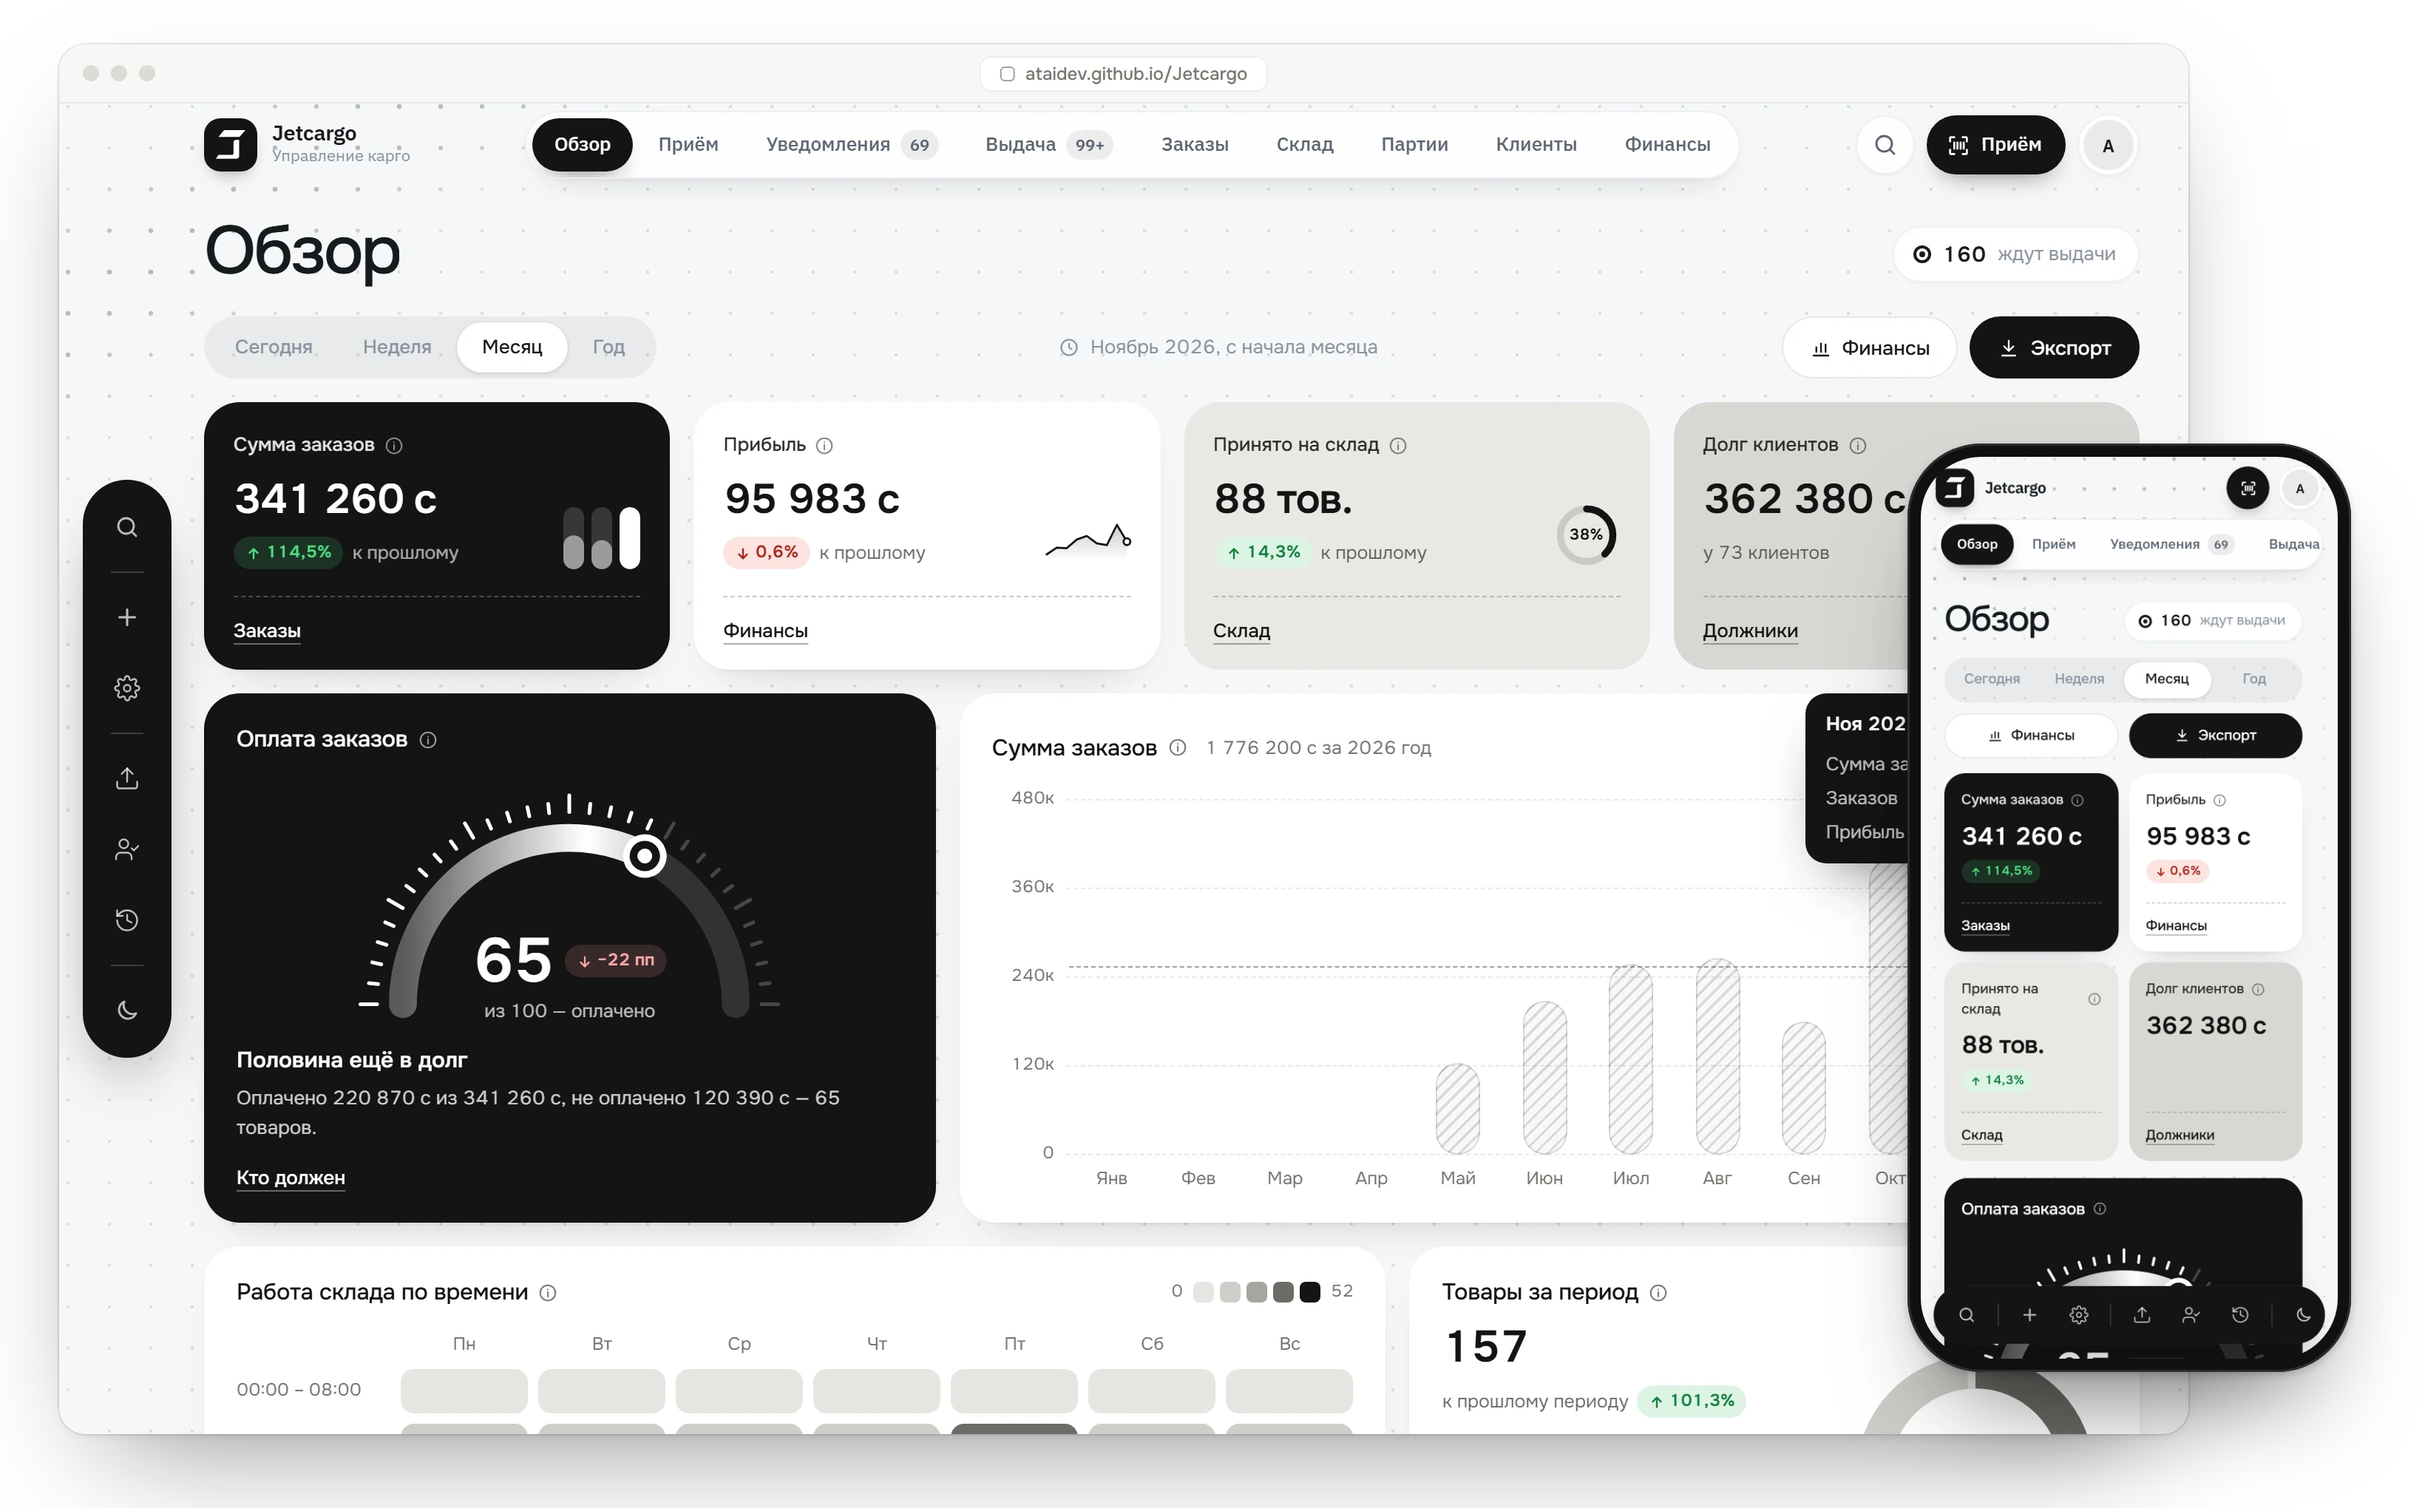
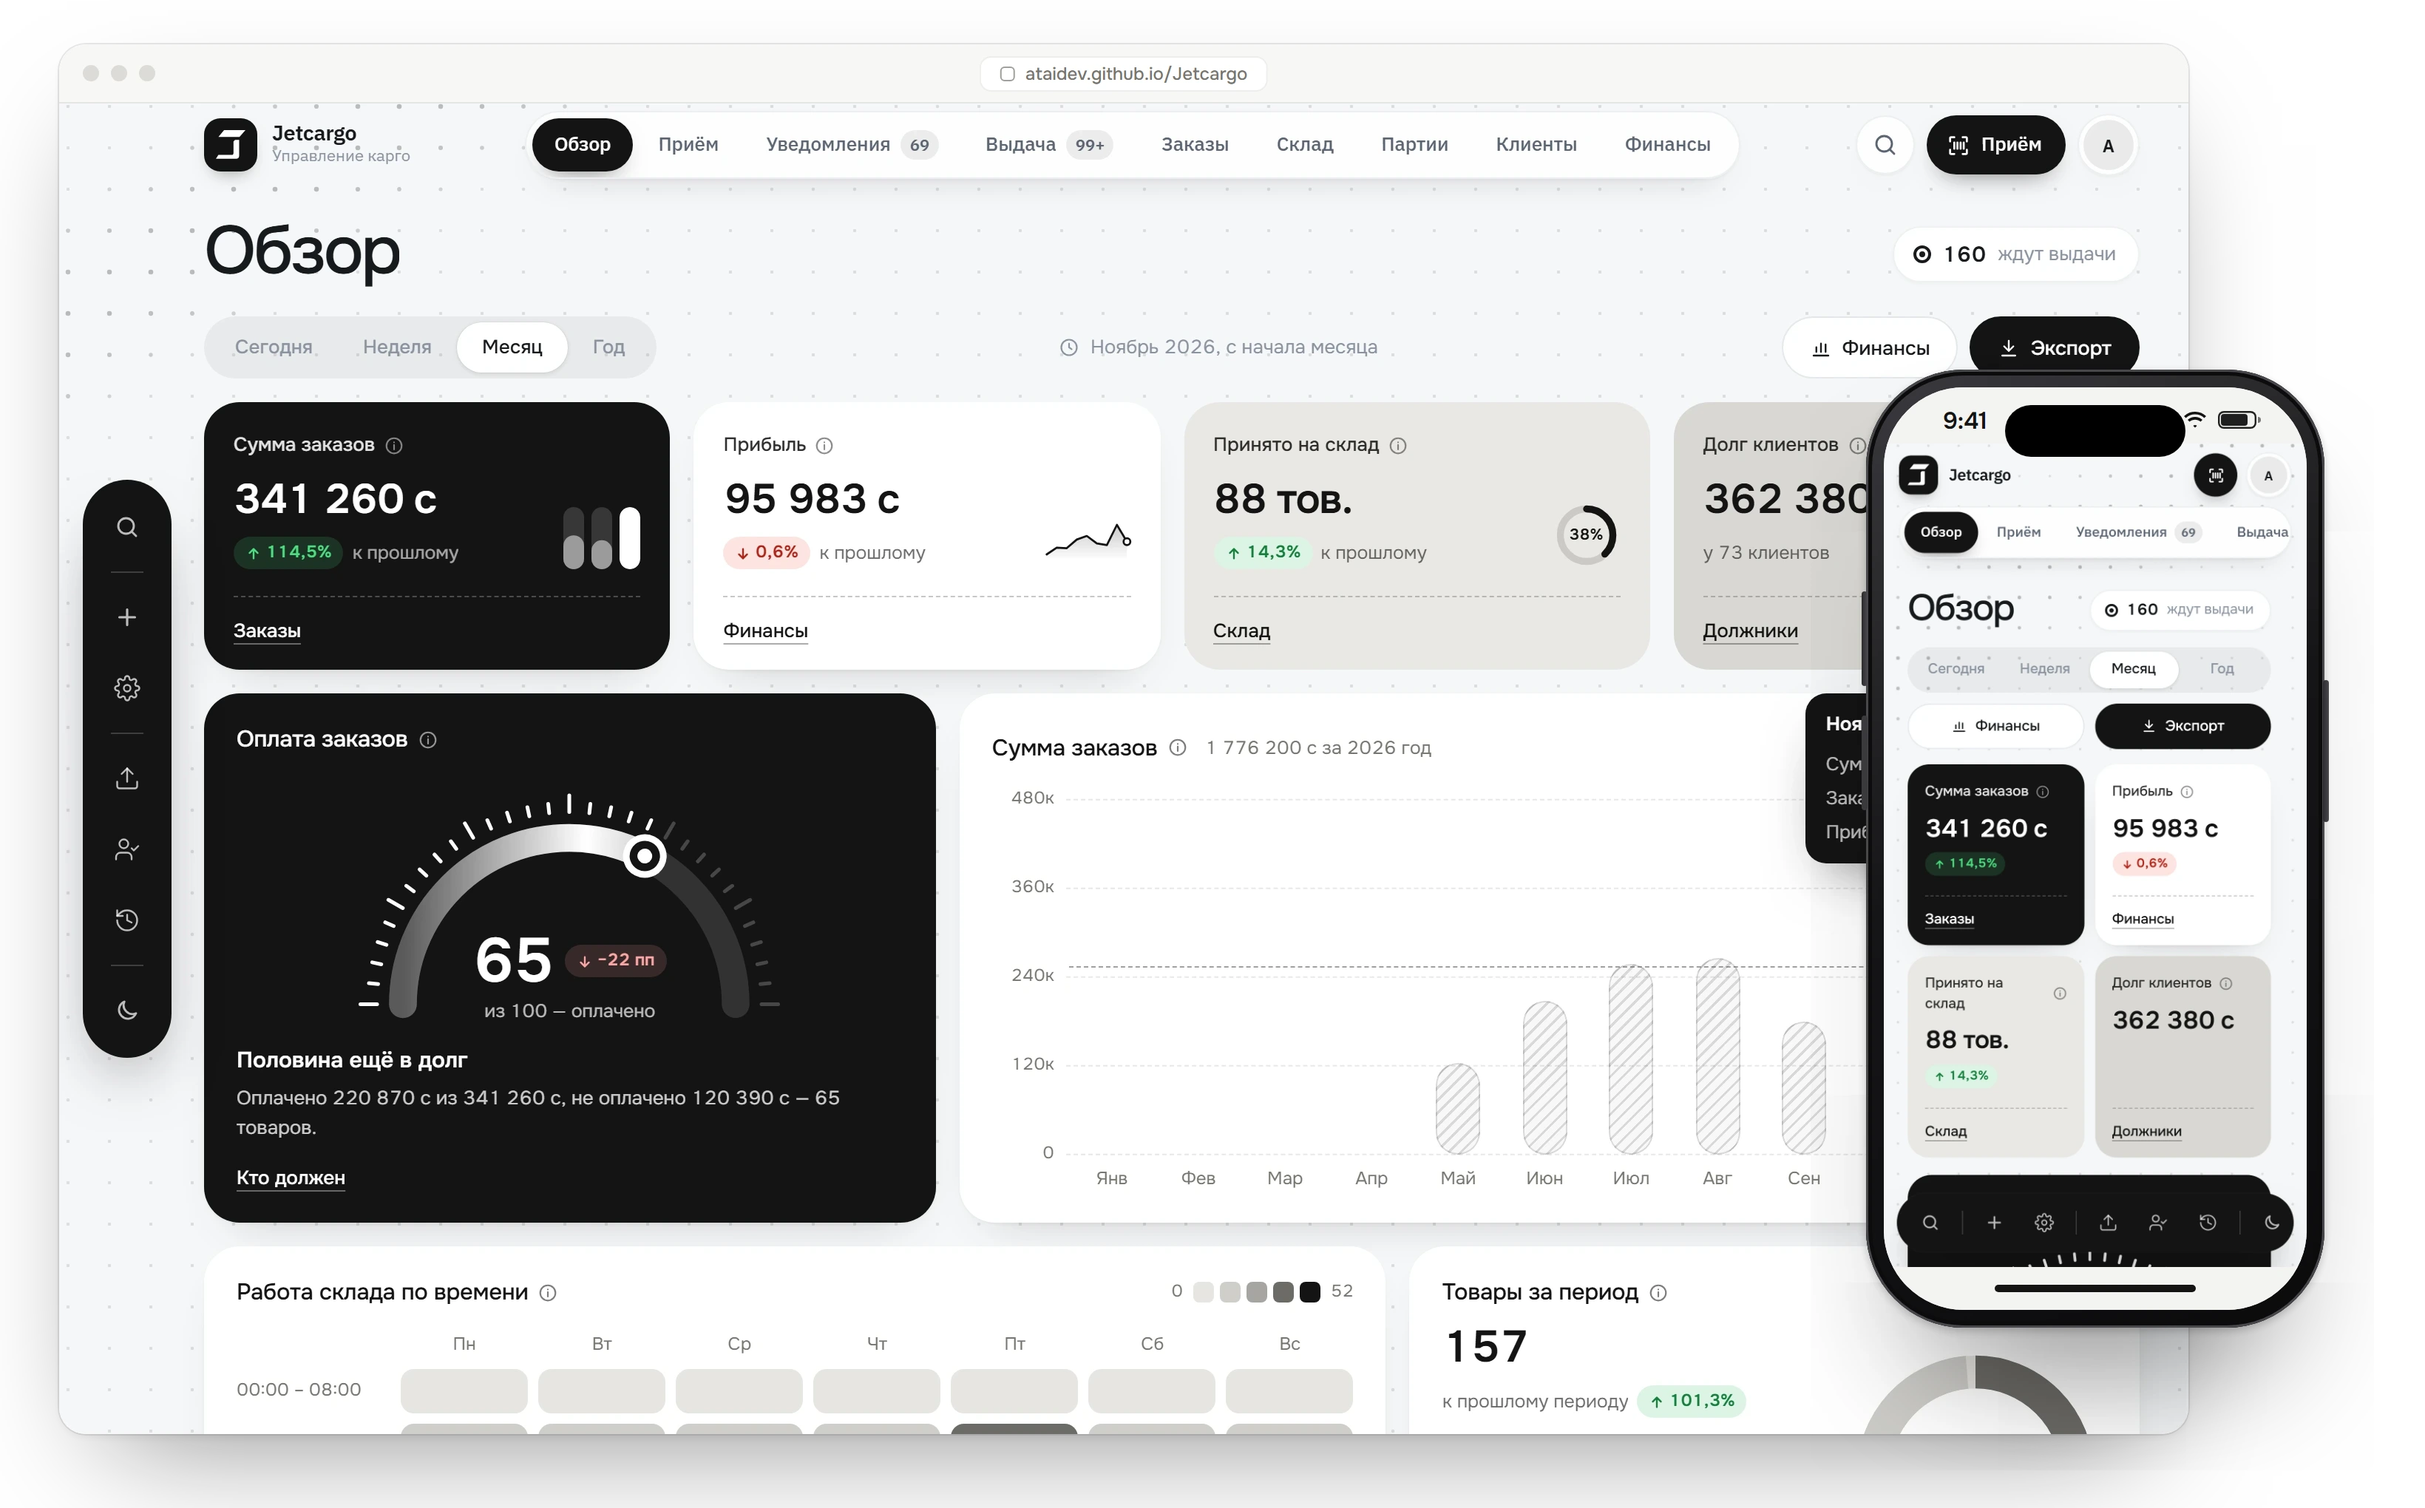
README: phones with status bar and home indicator, larger mobile screenshots

Changed region(s): [[0.7463, 0.2471, 0.9951, 0.9574]]

diff --git a/README.md b/README.md
@@ -72,8 +72,23 @@
 
 <br>
 
-<img src="docs/readme/phones.webp" alt="Мобильная версия: вход, обзор, клиент, приём" width="100%">
-<p align="center"><sub>Мобильная версия — принимать и выдавать товар можно прямо на складе</sub></p>
+<h2 align="center">Мобильная версия</h2>
+<p align="center"><sub>Принимать и выдавать товар можно прямо на складе — с телефона</sub></p>
+
+<table>
+  <tr>
+    <td width="50%"><img src="docs/readme/mobile/overview.webp" alt="Обзор на телефоне"><p align="center"><sub>Обзор</sub></p></td>
+    <td width="50%"><img src="docs/readme/mobile/item.webp" alt="Карточка товара на телефоне"><p align="center"><sub>Карточка товара</sub></p></td>
+  </tr>
+  <tr>
+    <td><img src="docs/readme/mobile/customer.webp" alt="Клиент на телефоне"><p align="center"><sub>Клиент</sub></p></td>
+    <td><img src="docs/readme/mobile/orders.webp" alt="Заказы на телефоне"><p align="center"><sub>Заказы</sub></p></td>
+  </tr>
+  <tr>
+    <td><img src="docs/readme/mobile/receive.webp" alt="Приём на телефоне"><p align="center"><sub>Приём</sub></p></td>
+    <td><img src="docs/readme/mobile/login.webp" alt="Вход на телефоне"><p align="center"><sub>Вход</sub></p></td>
+  </tr>
+</table>
 
 <br>
 
